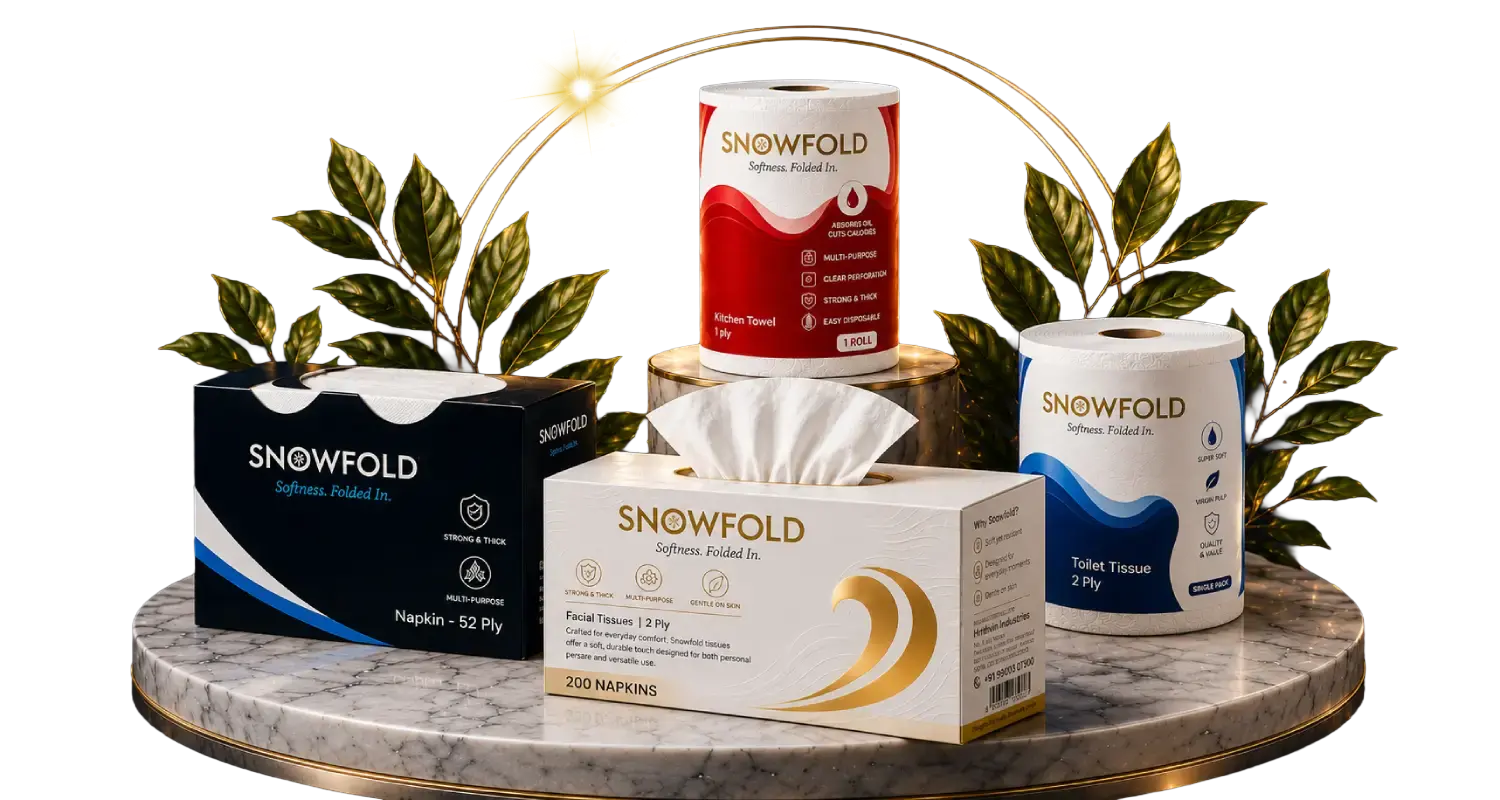
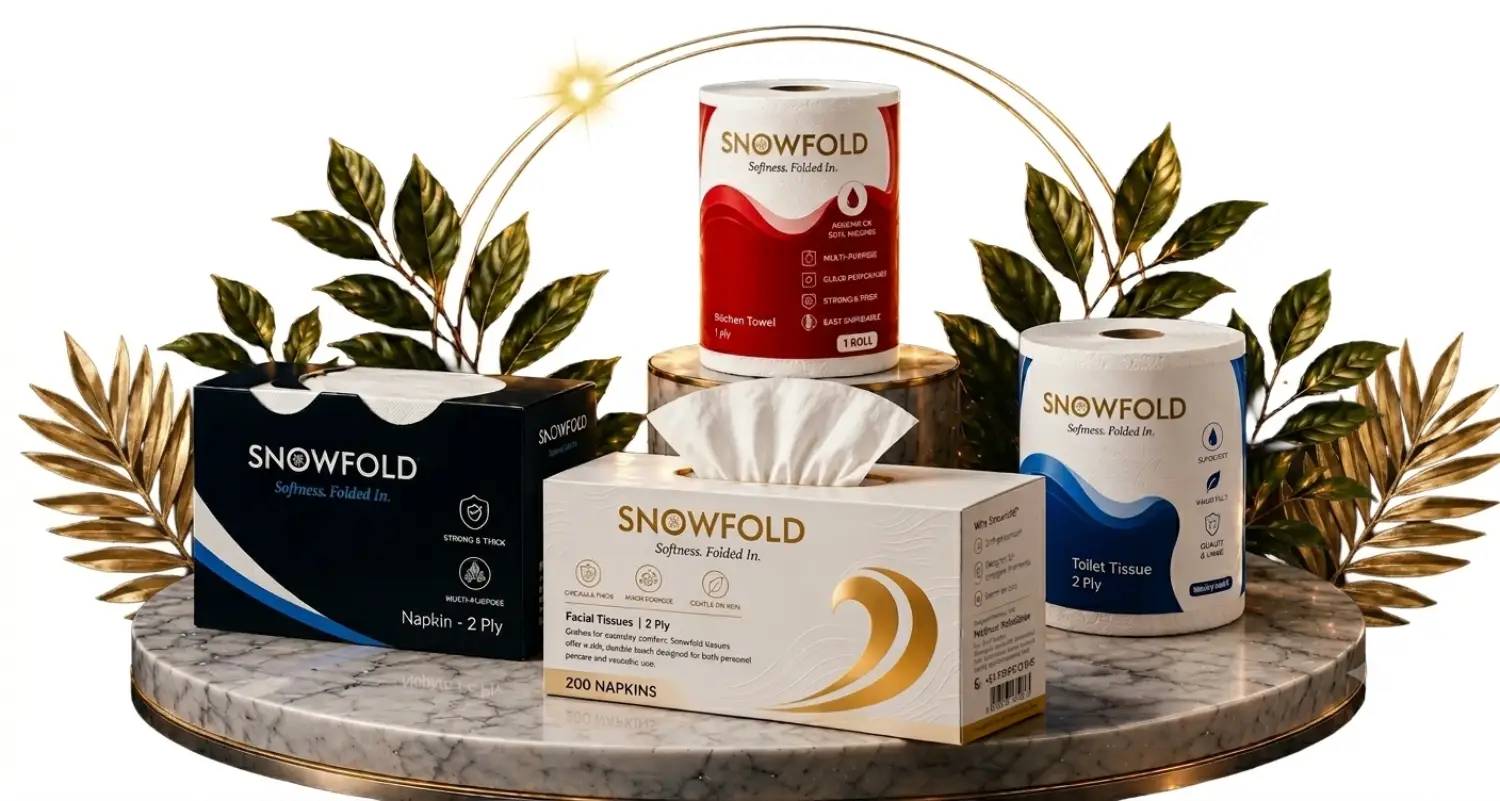
image change

diff --git a/index.html b/index.html
@@ -418,7 +418,7 @@
             </div>
           </div>
           <div class="product-cat-body">
-            <div class="product-cat-tag">52 Ply • Bulk Packs</div>
+            <div class="product-cat-tag">2 Ply • Bulk Packs</div>
             <h3 class="product-cat-name">Napkins</h3>
             <p class="product-cat-desc">Soft, hygienic and ideal for every occasion. Perfect for restaurants, hotels and fine dining.</p>
             <div class="product-cat-features">
@@ -480,7 +480,7 @@
     <div class="napkin-banner-content" data-aos="fade-up">
       <div class="section-eyebrow light">Featured Product</div>
       <h2>SNOWFOLD <span class="gold-gradient-text">Napkin</span></h2>
-      <p>52-ply strength. Cloud-like softness. Designed for dining rooms, events, and everyday elegance.</p>
+      <p>2-ply strength. Cloud-like softness. Designed for dining rooms, events, and everyday elegance.</p>
       <a href="products.html" class="btn-primary-gold">Explore Napkins <i class="fa-solid fa-arrow-right"></i></a>
     </div>
   </section>
